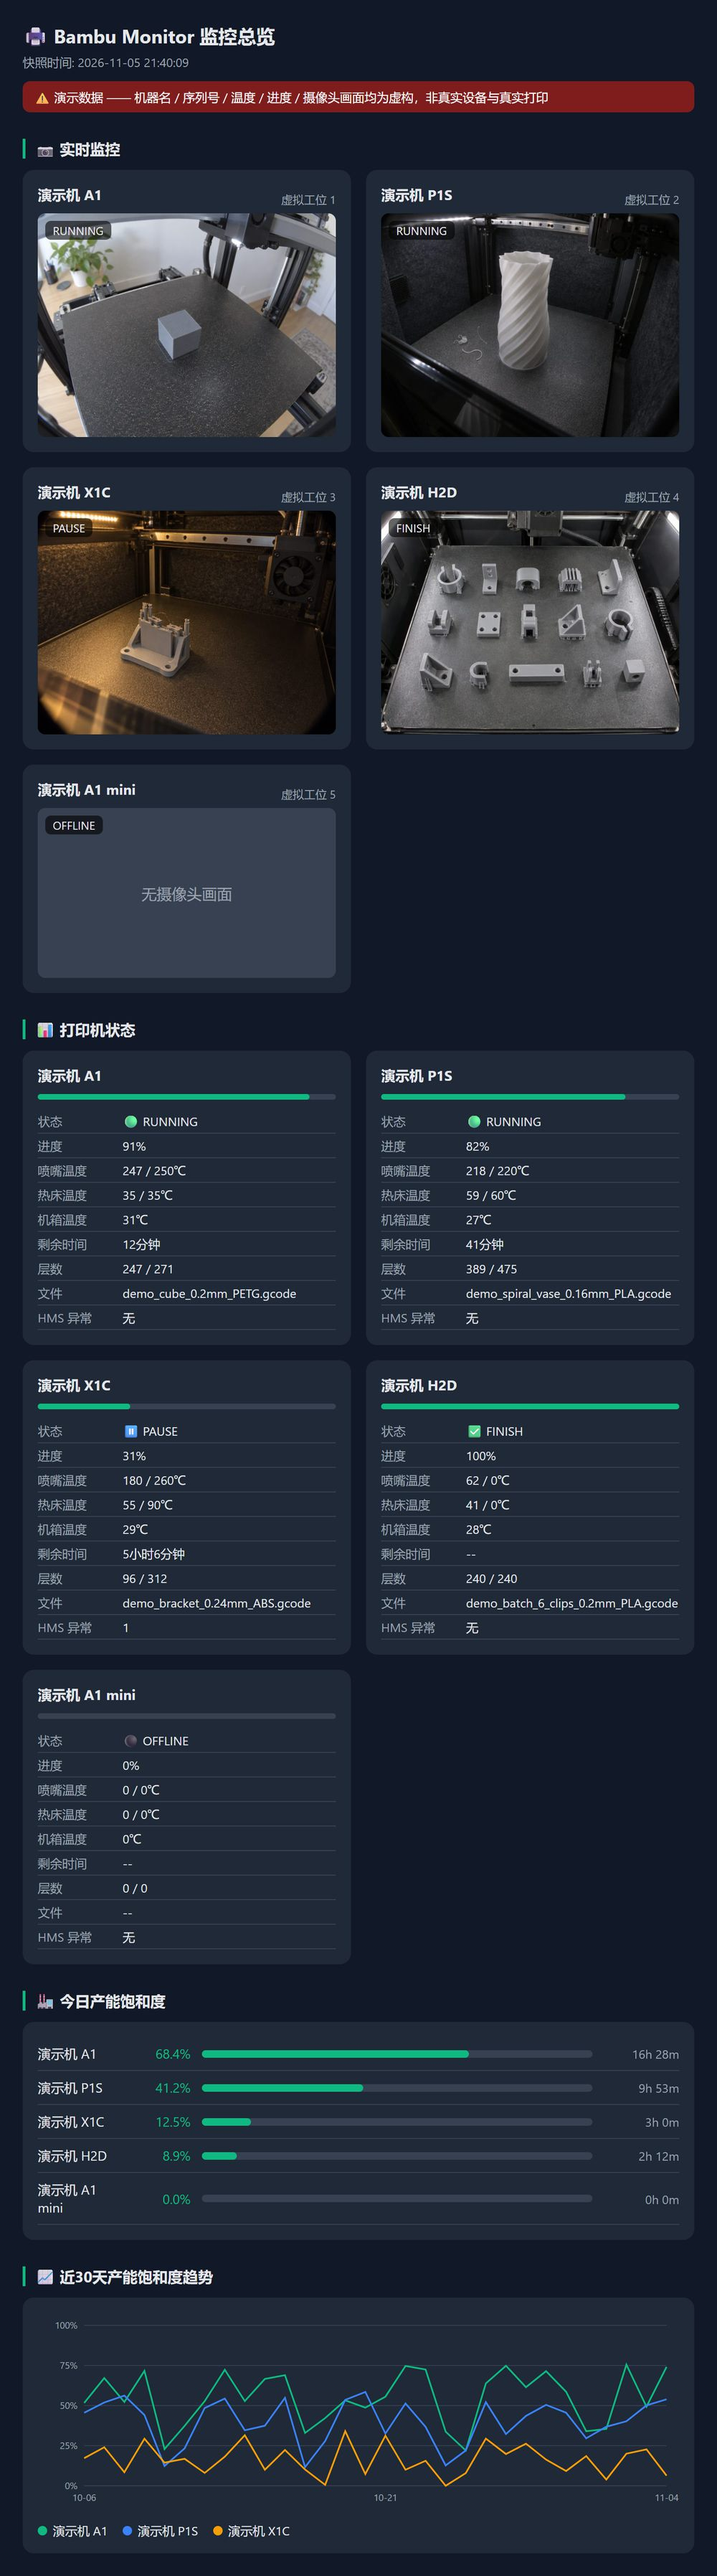
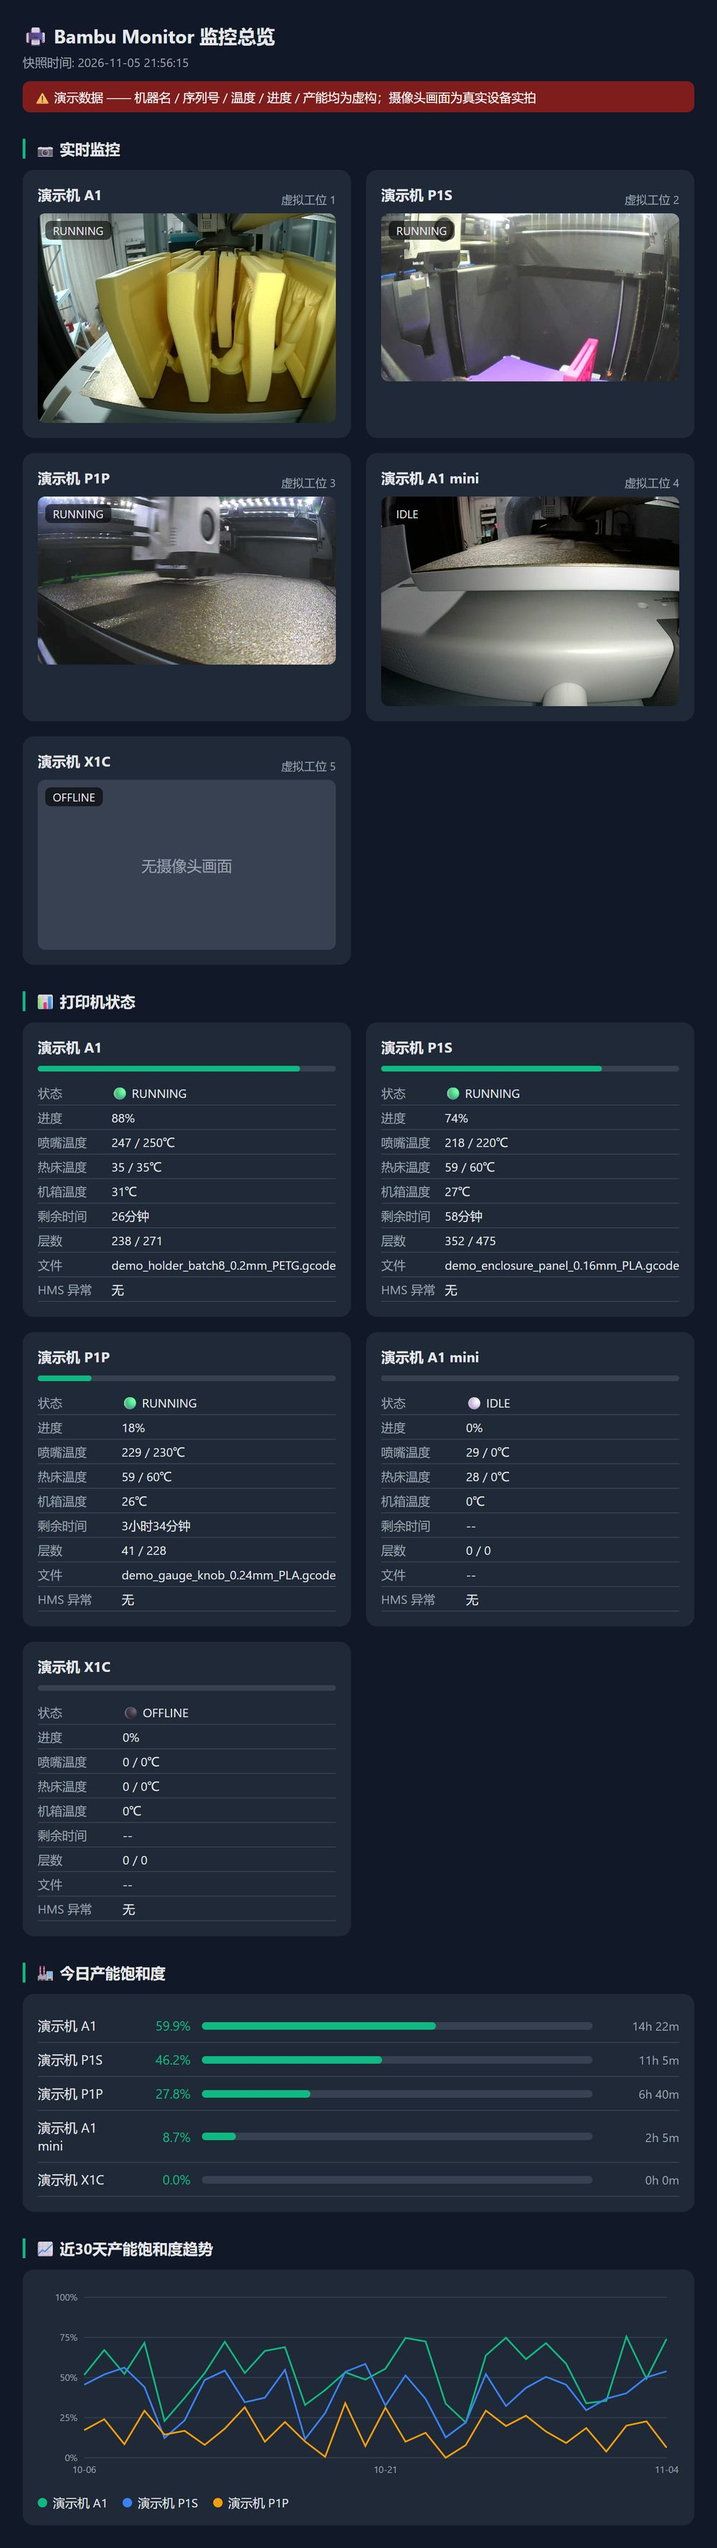
docs: 演示总览图改用真机实拍画面，标注虚构数据与实拍画面边界

diff --git a/README.md b/README.md
@@ -12,7 +12,7 @@
 ![监控总览（演示数据）](docs/assets/dashboard-overview.jpg)
 
 > 上图由企微 / 飞书「总览」指令的同款渲染管线生成，与网页面板的四个区块一致；
-> 机器名、序列号、温度、进度与摄像头画面**均为虚构演示数据**，非真实设备。
+> 机器名、序列号、温度、进度与产能**均为虚构演示数据**，摄像头画面为真实设备实拍。
 
 > [!TIP]
 > **不想自己折腾环境？把整个仓库交给你的 AI 编码助手。**
